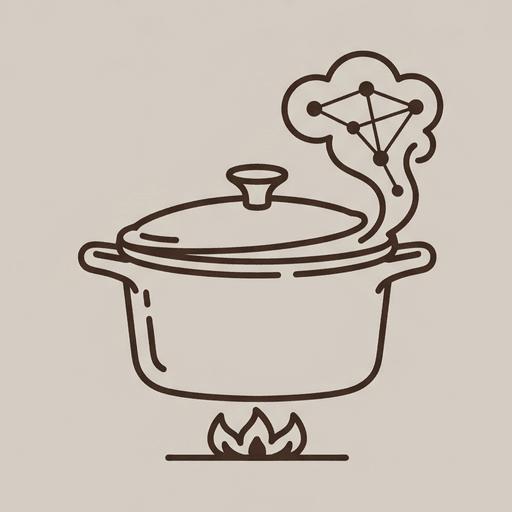
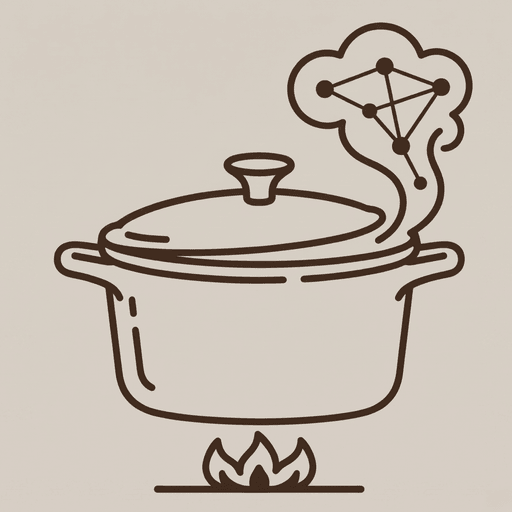
site: add Butcherblock card + glyph, upgrade Stockpot glyph, file combined mark
- New Butcherblock project card (sister to Stockpot) + matched-pair note.
- Swap stockpot.png for the cleaner higher-quality glyph.
- Add butcherblock.png glyph and the combined Stockpot+Butcherblock pipeline
  mark (assets/stockpot-butcherblock.png, unlinked — for future README/social use).
- Originals backed up under dev/brand-assets/.

Changed region(s): [[0.0938, 0.0312, 0.9375, 0.9688]]

diff --git a/index.html b/index.html
@@ -89,6 +89,14 @@
   }
   footer .fine { font-style: normal; margin-top: 8px; opacity: 0.8; }
 
+  /* matched-pair note */
+  .pair-note {
+    margin: -14px 0 36px; padding: 12px 16px;
+    border-left: 2px solid var(--line); border-radius: 0 8px 8px 0;
+    background: rgba(62, 43, 34, 0.035);
+    color: var(--muted); font-style: italic; font-size: 0.95rem;
+  }
+
   @media (max-width: 480px) {
     .wrap { padding: 44px 20px 72px; }
     h1 { font-size: 1.7rem; }
@@ -136,6 +144,17 @@
         <p class="desc">a permanent memory for one life: journals, reading, and notes go into one inbox, and overnight they're broken into small claims, linked, and grown into a personal wikipedia that gets deeper the more goes in. the memory part works; the part that runs research while we sleep is still learning.</p>
       </div>
     </div>
+
+    <div class="card">
+      <div class="glyph"><img src="/assets/butcherblock.png" alt="Butcherblock — a butcher block where each session is chopped into even pieces" width="96" height="96" loading="lazy" onerror="this.style.display='none'"></div>
+      <div class="body">
+        <h3>Butcherblock <span class="status">in the works</span></h3>
+        <p class="lead">short-term recall for your terminal.</p>
+        <p class="desc">the fast half of the memory pair: every coding session is saved whole so you can grep it, and chopped turn-by-turn into searchable pieces so you can find a thing by meaning long after. what's worth keeping gets simmered down into Stockpot. built for people who live at the command line.</p>
+      </div>
+    </div>
+
+    <p class="pair-note">Stockpot and Butcherblock are a matched pair — Butcherblock keeps each working session within reach and reduces what matters down into Stockpot's long memory. Either stands alone; together they're a whole memory.</p>
   </section>
 
   <section>